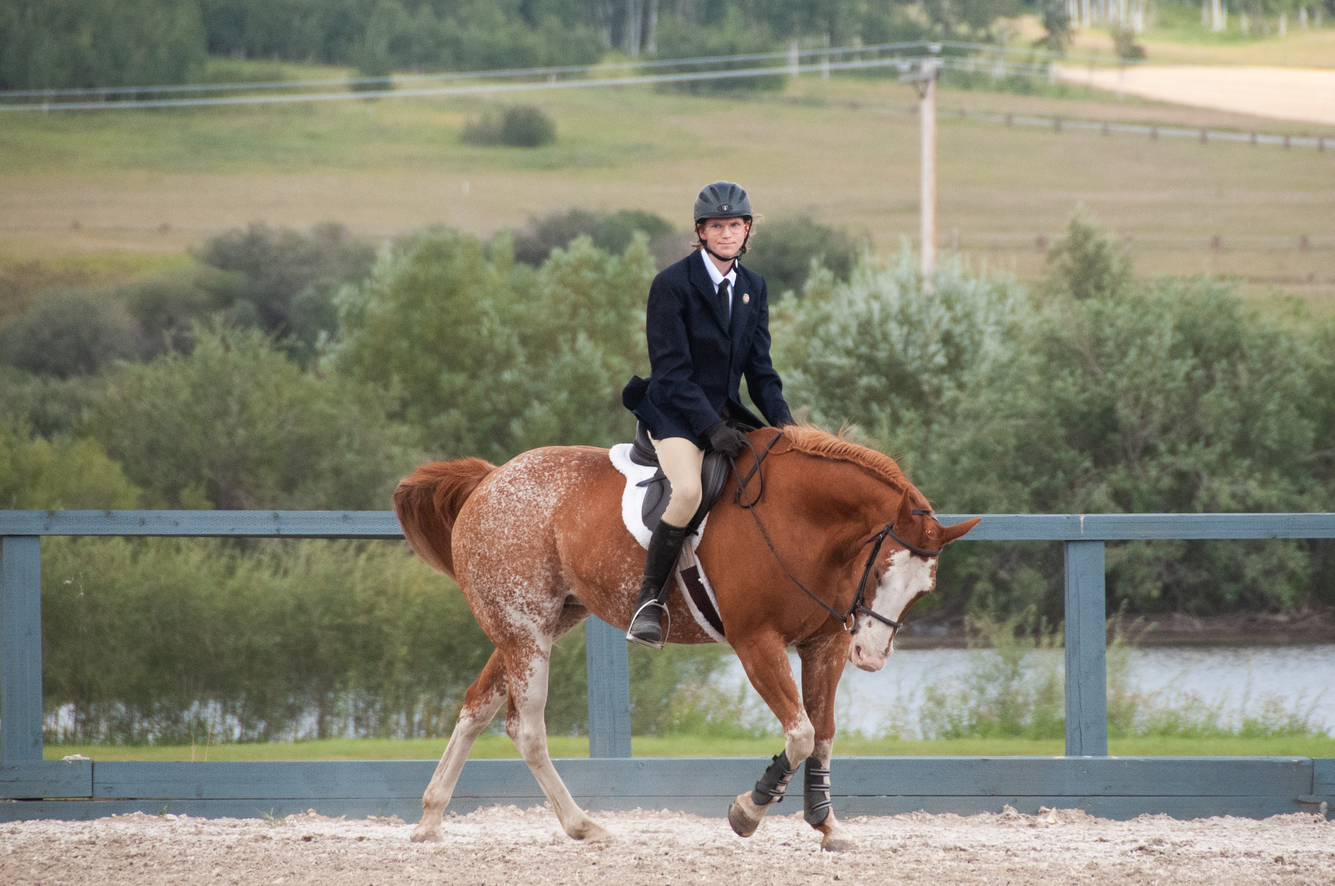
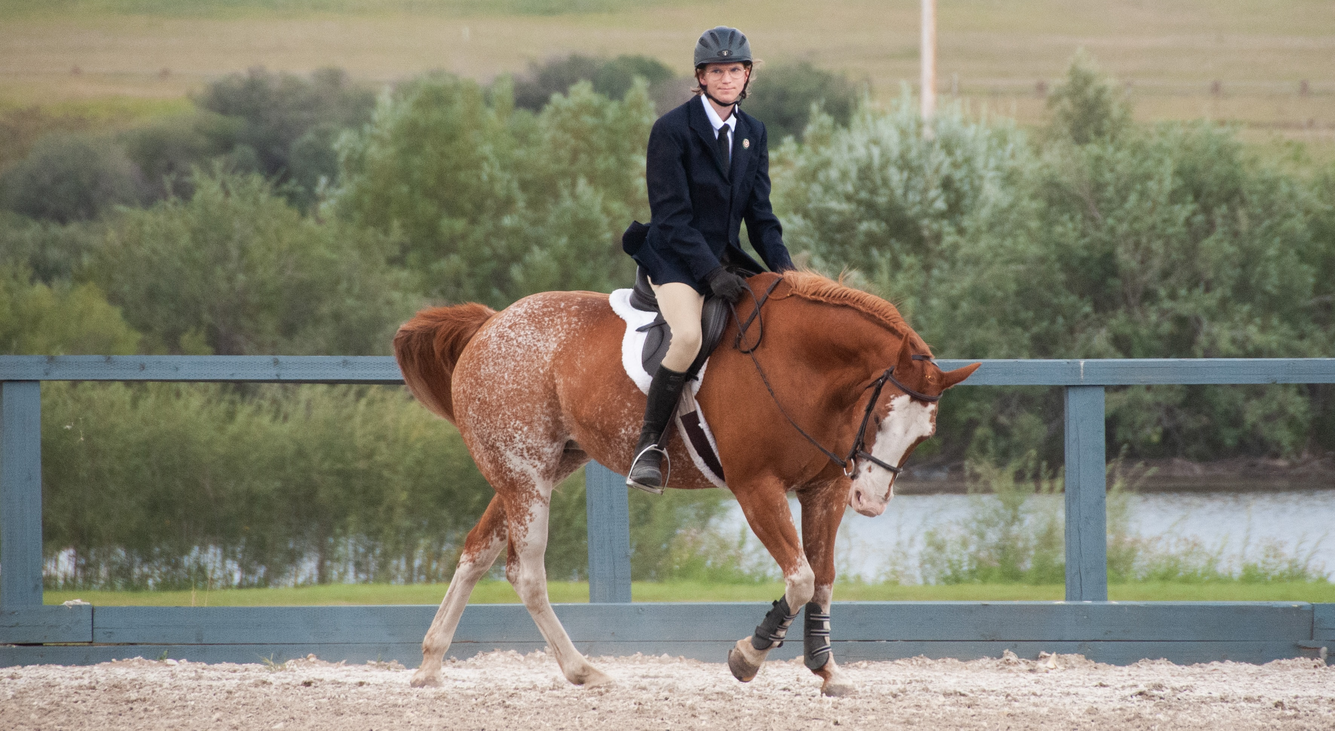
Updated covers

diff --git a/ursem.cc/js/main.js b/ursem.cc/js/main.js
@@ -25,10 +25,11 @@ function setCover() {
         coverDiv.appendChild(first);
         coverDiv.appendChild(last);
     }
+
+    let themeColors = ['#6cb8c5','#84c09e','#ecdb64','#de6e5a'];
     
     function getThemeColor() {
-        const themeColors = ['#6cb8c5','#84c09e','#ecdb64','#de6e5a'];
-        return themeColors[Math.floor(Math.random() * themeColors.length)];
+        return themeColors.splice(Math.floor(Math.random() * themeColors.length),1)[0];
     }
     
     function getRandHeight() {

diff --git a/ursem.cc/css/main.css b/ursem.cc/css/main.css
@@ -41,7 +41,7 @@ body {
         scroll-snap-align: center;
         background-repeat: no-repeat;
         background-size: cover;
-        background-position: bottom center;
+        background-position: center center;
 }
 
 #sitecover h1 {
